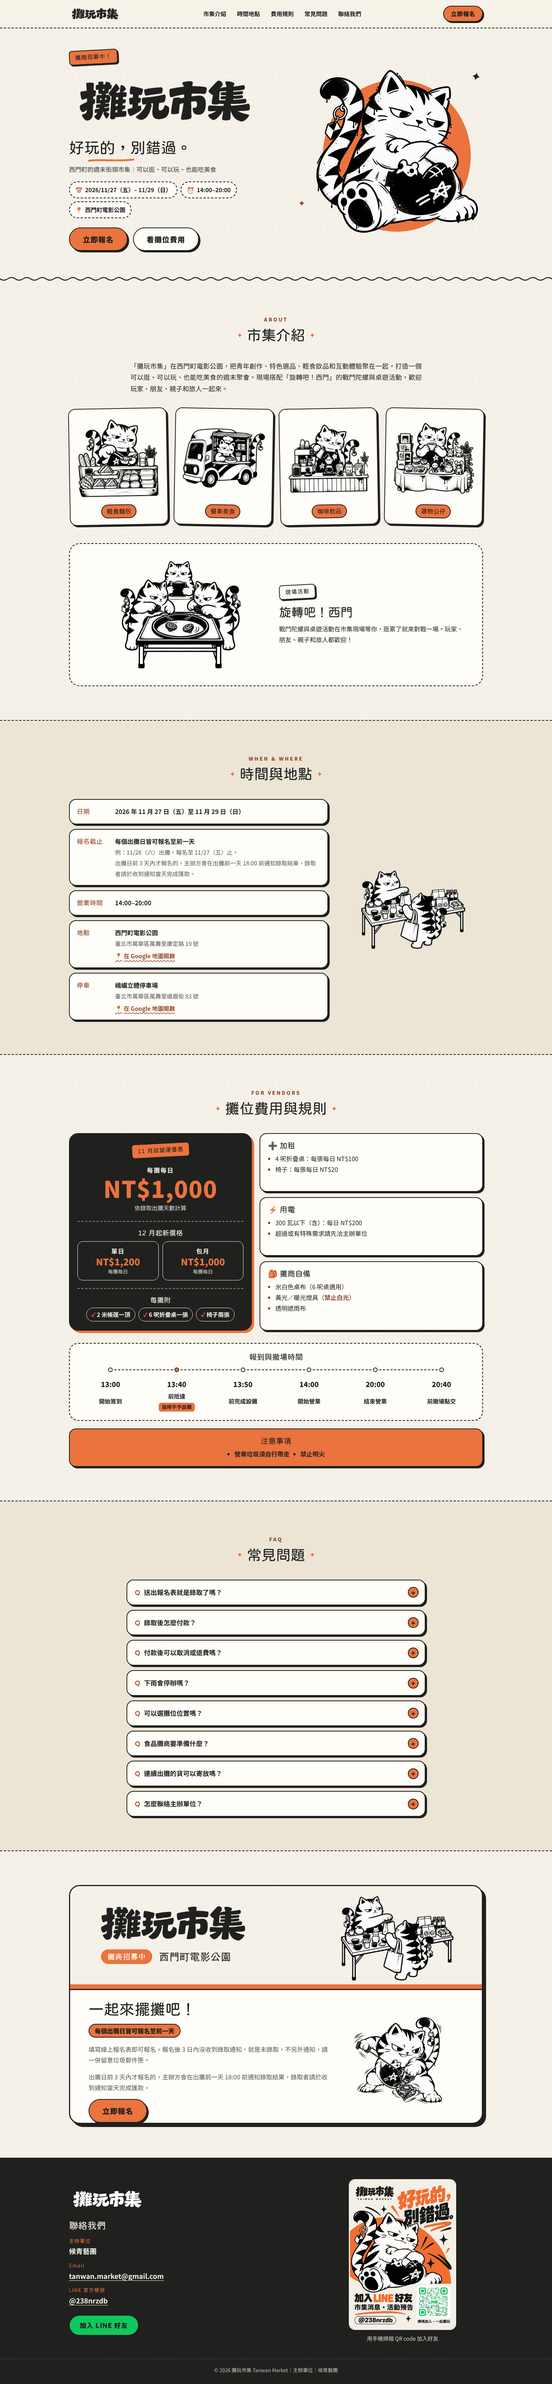
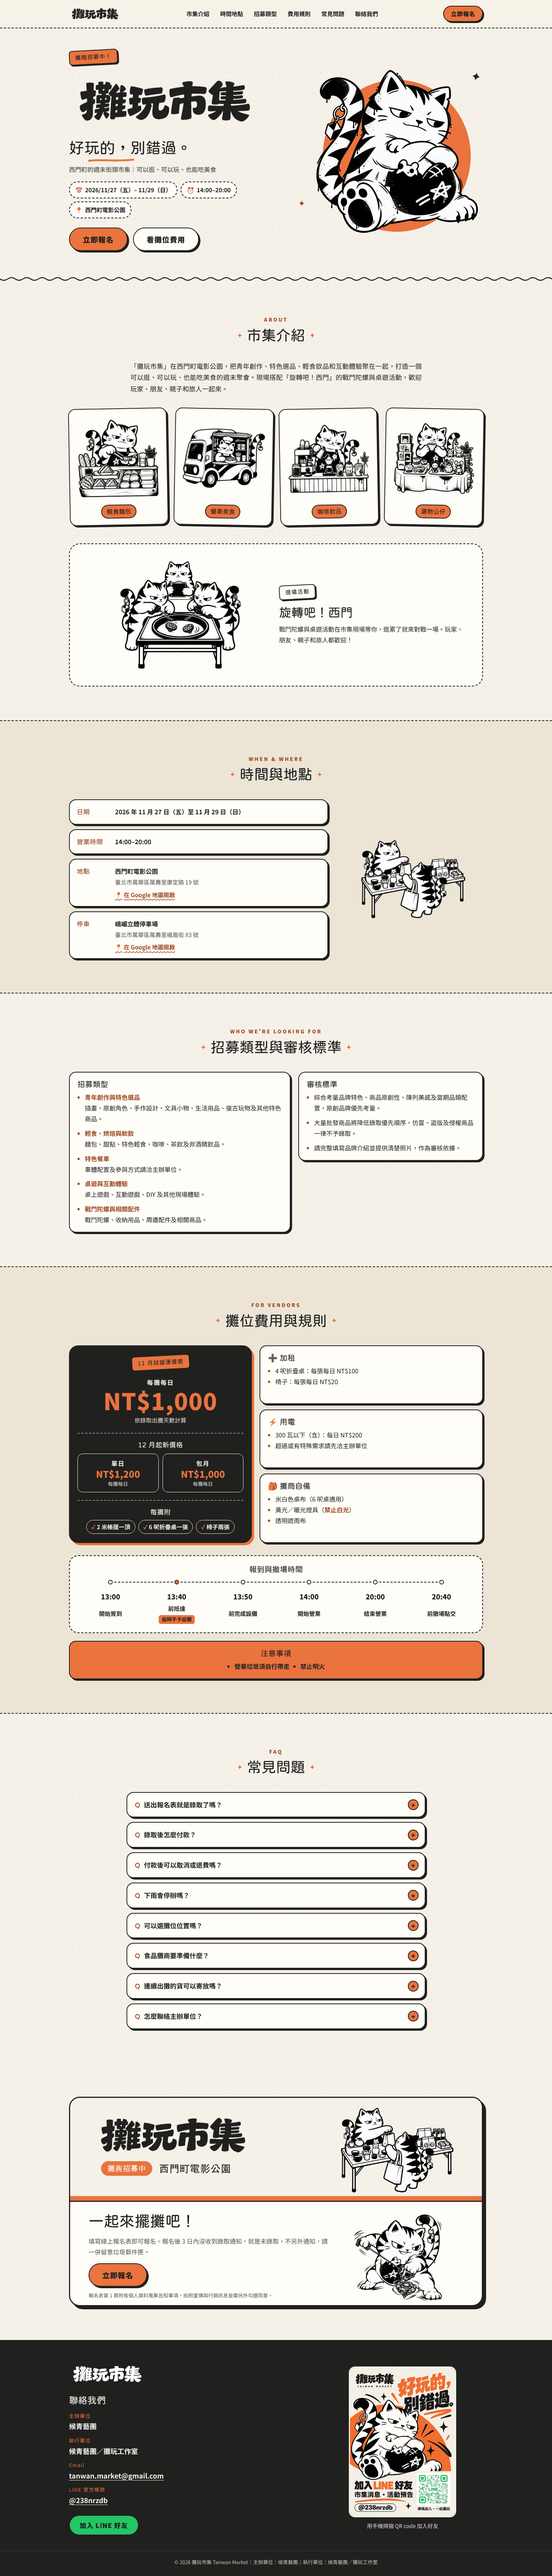
Align site with the signup form: drop deadline rules, add recruit criteria
- Remove the signup-deadline and late-signup rules from the info
  section, signup block and FAQ; restore the two FAQ answers.
- Add a 招募類型與審核標準 section before the fees section.
- Footer: add 執行單位 候青藝團／攤玩工作室.
- Add the privacy notice line under the signup button.
- Update README and screenshots.

Claude-Session: https://claude.ai/code/session_012dQHuckgmktwtxDEBvdD1o

Changed region(s): [[0.0, 0.0, 1.0, 0.9989]]

diff --git a/index.html b/index.html
@@ -46,6 +46,7 @@
         <ul>
           <li><a href="#about">市集介紹</a></li>
           <li><a href="#info">時間地點</a></li>
+          <li><a href="#recruit">招募類型</a></li>
           <li><a href="#fees">費用規則</a></li>
           <li><a href="#faq">常見問題</a></li>
           <li><a href="#contact">聯絡我們</a></li>
@@ -147,10 +148,6 @@
               <dd>2026 年 11 月 27 日（五）至 11 月 29 日（日）</dd>
             </div>
             <div class="info-item">
-              <dt>報名截止</dt>
-              <dd>每個出攤日皆可報名至前一天<br><span class="muted">例：11/28（六）出攤，報名至 11/27（五）止。<br>出攤日前 3 天內才報名的，主辦方會在出攤前一天 18:00 前通知錄取結果，錄取者請於收到通知當天完成匯款。</span></dd>
-            </div>
-            <div class="info-item">
               <dt>營業時間</dt>
               <dd>14:00–20:00</dd>
             </div>
@@ -178,9 +175,40 @@
       </div>
     </section>
 
-    <!-- ===================== 4. 攤位費用與規則 ===================== -->
+    <!-- ===================== 4. 招募類型與審核標準 ===================== -->
+    <section class="section" id="recruit" aria-labelledby="recruit-title">
+      <div class="container">
+        <header class="section-head">
+          <p class="eyebrow">WHO WE'RE LOOKING FOR</p>
+          <h2 id="recruit-title">招募類型與審核標準</h2>
+        </header>
+
+        <div class="recruit-layout">
+          <article class="rule-card recruit-card">
+            <h3>招募類型</h3>
+            <ul class="recruit-list">
+              <li><strong>青年創作與特色選品</strong>插畫、原創角色、手作設計、文具小物、生活用品、復古玩物及其他特色商品。</li>
+              <li><strong>輕食、烘焙與軟飲</strong>麵包、甜點、特色輕食、咖啡、茶飲及非酒精飲品。</li>
+              <li><strong>特色餐車</strong>車體配置及參與方式請洽主辦單位。</li>
+              <li><strong>桌遊與互動體驗</strong>桌上遊戲、互動遊戲、DIY 及其他現場體驗。</li>
+              <li><strong>戰鬥陀螺與相關配件</strong>戰鬥陀螺、收納用品、周邊配件及相關商品。</li>
+            </ul>
+          </article>
+          <article class="rule-card recruit-card">
+            <h3>審核標準</h3>
+            <ul>
+              <li>綜合考量品牌特色、商品原創性、陳列美感及當期品類配置，原創品牌優先考量。</li>
+              <li>大量批發商品將降低錄取優先順序，仿冒、盜版及侵權商品一律不予錄取。</li>
+              <li>請完整填寫品牌介紹並提供清楚照片，作為審核依據。</li>
+            </ul>
+          </article>
+        </div>
+      </div>
+    </section>
+
+    <!-- ===================== 5. 攤位費用與規則 ===================== -->
     <!-- ✏ 攤位費用：改這一段（11 月試營運價＋12 月起新價格；11 月檔期結束後可把試營運價改成 12 月價格） -->
-    <section class="section" id="fees" aria-labelledby="fees-title">
+    <section class="section section-alt" id="fees" aria-labelledby="fees-title">
       <div class="container">
         <header class="section-head">
           <p class="eyebrow">FOR VENDORS</p>
@@ -260,8 +288,8 @@
       </div>
     </section>
 
-    <!-- ===================== 5. 常見問題 ===================== -->
-    <section class="section section-alt" id="faq" aria-labelledby="faq-title">
+    <!-- ===================== 6. 常見問題 ===================== -->
+    <section class="section" id="faq" aria-labelledby="faq-title">
       <div class="container container-narrow">
         <header class="section-head">
           <p class="eyebrow">FAQ</p>
@@ -271,11 +299,11 @@
         <div class="faq-list">
           <details class="faq">
             <summary>送出報名表就是錄取了嗎？</summary>
-            <div class="faq-body"><p>不是。報名後 3 日內沒收到錄取通知，就是未錄取，不另外通知，請一併留意垃圾郵件匣。</p><p>出攤日前 3 天內才報名的，會在出攤前一天 18:00 前通知錄取結果；到時沒收到通知，就是未錄取。</p></div>
+            <div class="faq-body"><p>不是。報名後 3 日內沒收到錄取通知，就是未錄取，不另外通知，請一併留意垃圾郵件匣。</p></div>
           </details>
           <details class="faq">
             <summary>錄取後怎麼付款？</summary>
-            <div class="faq-body"><p>收到錄取通知後 3 日內匯款，並填寫匯款回傳單。</p><p>出攤日前 3 天內才報名、在出攤前一天收到錄取通知的，請於收到通知當天完成匯款並填寫匯款回傳單。</p></div>
+            <div class="faq-body"><p>收到錄取通知後 3 日內匯款，並填寫匯款回傳單。</p></div>
           </details>
           <details class="faq">
             <summary>付款後可以取消或退費嗎？</summary>
@@ -305,7 +333,7 @@
       </div>
     </section>
 
-    <!-- ===================== 6. 報名區塊 ===================== -->
+    <!-- ===================== 7. 報名區塊 ===================== -->
     <section class="section signup" id="signup" aria-labelledby="signup-title">
       <div class="container">
         <div class="signup-card">
@@ -313,11 +341,9 @@
           <div class="signup-body">
             <div class="signup-text">
               <h2 id="signup-title">一起來擺攤吧！</h2>
-              <!-- ✏ 報名截止日 -->
-              <p class="signup-deadline">每個出攤日皆可報名至前一天</p>
               <p>填寫線上報名表即可報名。報名後 3 日內沒收到錄取通知，就是未錄取，不另外通知，請一併留意垃圾郵件匣。</p>
-              <p>出攤日前 3 天內才報名的，主辦方會在出攤前一天 18:00 前通知錄取結果，錄取者請於收到通知當天完成匯款。</p>
               <a class="btn btn-lg" href="https://forms.gle/8Fhi1L7nHp1qh5zT6" target="_blank" rel="noopener">立即報名<span class="sr-only">（另開新分頁）</span></a>
+              <p class="signup-privacy">報名表第 1 頁附有個人資料蒐集告知事項，拍照宣傳與行銷訊息皆需另外勾選同意。</p>
             </div>
             <img class="signup-cat" src="assets/cat-launch.png" alt="攤玩貓拉線發射戰鬥陀螺" width="800" height="800" loading="lazy">
           </div>
@@ -327,7 +353,7 @@
 
   </main>
 
-  <!-- ===================== 7. 頁尾／聯絡 ===================== -->
+  <!-- ===================== 8. 頁尾／聯絡 ===================== -->
   <footer class="site-footer" id="contact" aria-labelledby="contact-title">
     <div class="container footer-inner">
       <div class="footer-info">
@@ -337,6 +363,10 @@
           <li>
             <span class="contact-label">主辦單位</span>
             <span class="contact-value">候青藝團</span>
+          </li>
+          <li>
+            <span class="contact-label">執行單位</span>
+            <span class="contact-value">候青藝團／攤玩工作室</span>
           </li>
           <li>
             <span class="contact-label">Email</span>
@@ -354,7 +384,7 @@
         <p class="qr-hint">用手機掃描 QR code 加入好友</p>
       </div>
     </div>
-    <p class="copyright">© 2026 攤玩市集 Tanwan Market｜主辦單位：候青藝團</p>
+    <p class="copyright">© 2026 攤玩市集 Tanwan Market｜主辦單位：候青藝團；執行單位：候青藝團／攤玩工作室</p>
   </footer>
 </body>
 </html>

diff --git a/styles.css b/styles.css
@@ -482,6 +482,12 @@ a { color: inherit; }
 }
 .check-list li::before { content: "✓ "; color: var(--orange); }
 
+/* ---------- recruit ---------- */
+.recruit-layout { display: grid; gap: 20px; }
+.recruit-card h3 { margin-bottom: 10px; }
+.recruit-card li + li { margin-top: .6em; }
+.recruit-list strong { display: block; }
+
 .rule-cards { display: grid; gap: 14px; }
 .rule-card {
   padding: 18px 20px;
@@ -646,15 +652,7 @@ a { color: inherit; }
 .signup-text { text-align: center; }
 .signup-text h2 { font-size: clamp(1.75rem, 6vw, 2.5rem); margin-bottom: 12px; }
 .signup-text p { color: var(--muted); }
-.signup-text .signup-deadline {
-  display: inline-block;
-  padding: 2px 14px;
-  background: var(--orange);
-  border: 2px solid var(--ink);
-  border-radius: 999px;
-  color: var(--ink);
-  font-weight: 900;
-}
+.signup-text .signup-privacy { margin-top: 12px; font-size: .8125rem; }
 .signup-cat { width: min(70%, 280px); margin: 0 auto; }
 
 /* ---------- footer ---------- */
@@ -757,6 +755,7 @@ a { color: inherit; }
 
   .info-layout { grid-template-columns: 1.3fr .7fr; gap: 40px; }
 
+  .recruit-layout { grid-template-columns: 1.2fr 1fr; align-items: start; }
   .fee-layout { grid-template-columns: .9fr 1.1fr; align-items: stretch; }
   .price-card { display: flex; flex-direction: column; justify-content: center; }
   .rule-cards { grid-template-columns: 1fr; }

diff --git a/README.md b/README.md
@@ -23,7 +23,7 @@ tanwan-market/
 └── docs/screenshots/   # 手機與桌機預覽截圖
 ```
 
-頁面由上到下：主視覺 → 市集介紹 → 時間與地點 → 攤位費用與規則 → 常見問題 → 報名區塊 → 頁尾（聯絡我們）。
+頁面由上到下：主視覺 → 市集介紹 → 時間與地點 → 招募類型與審核標準 → 攤位費用與規則 → 常見問題 → 報名區塊 → 頁尾（聯絡我們）。
 
 ## 如何更新日期和費用
 
@@ -33,8 +33,7 @@ tanwan-market/
 | --- | --- |
 | 分享標題、搜尋結果說明裡的日期 | 檔案最上方 `<title>`、`description`、`og:description`、`twitter:description` |
 | 主視覺上的日期／時間／地點小標籤 | `✏ 日期地點（主視覺）` |
-| 時間與地點區塊（日期、報名截止、營業時間、地址、停車） | `✏ 日期、營業時間、地點` |
-| 報名區的「報名截止」標籤 | `✏ 報名截止日` |
+| 時間與地點區塊（日期、營業時間、地址、停車） | `✏ 日期、營業時間、地點` |
 | 攤位費用、設備、加租、用電、自備、報到撤場 | `✏ 攤位費用` |
 
 **目前價格**：價格卡上方是 `11 月試營運優惠`（每攤每日 NT$1,000），下方「12 月起新價格」列出單日 NT$1,200、包月每攤每日 NT$1,000（`price-next` 區塊）。11 月檔期結束後，可以把上方貼紙和 `NT$1,000` 改成 12 月的價格，再刪掉 `<div class="price-next">…</div>` 整塊。
